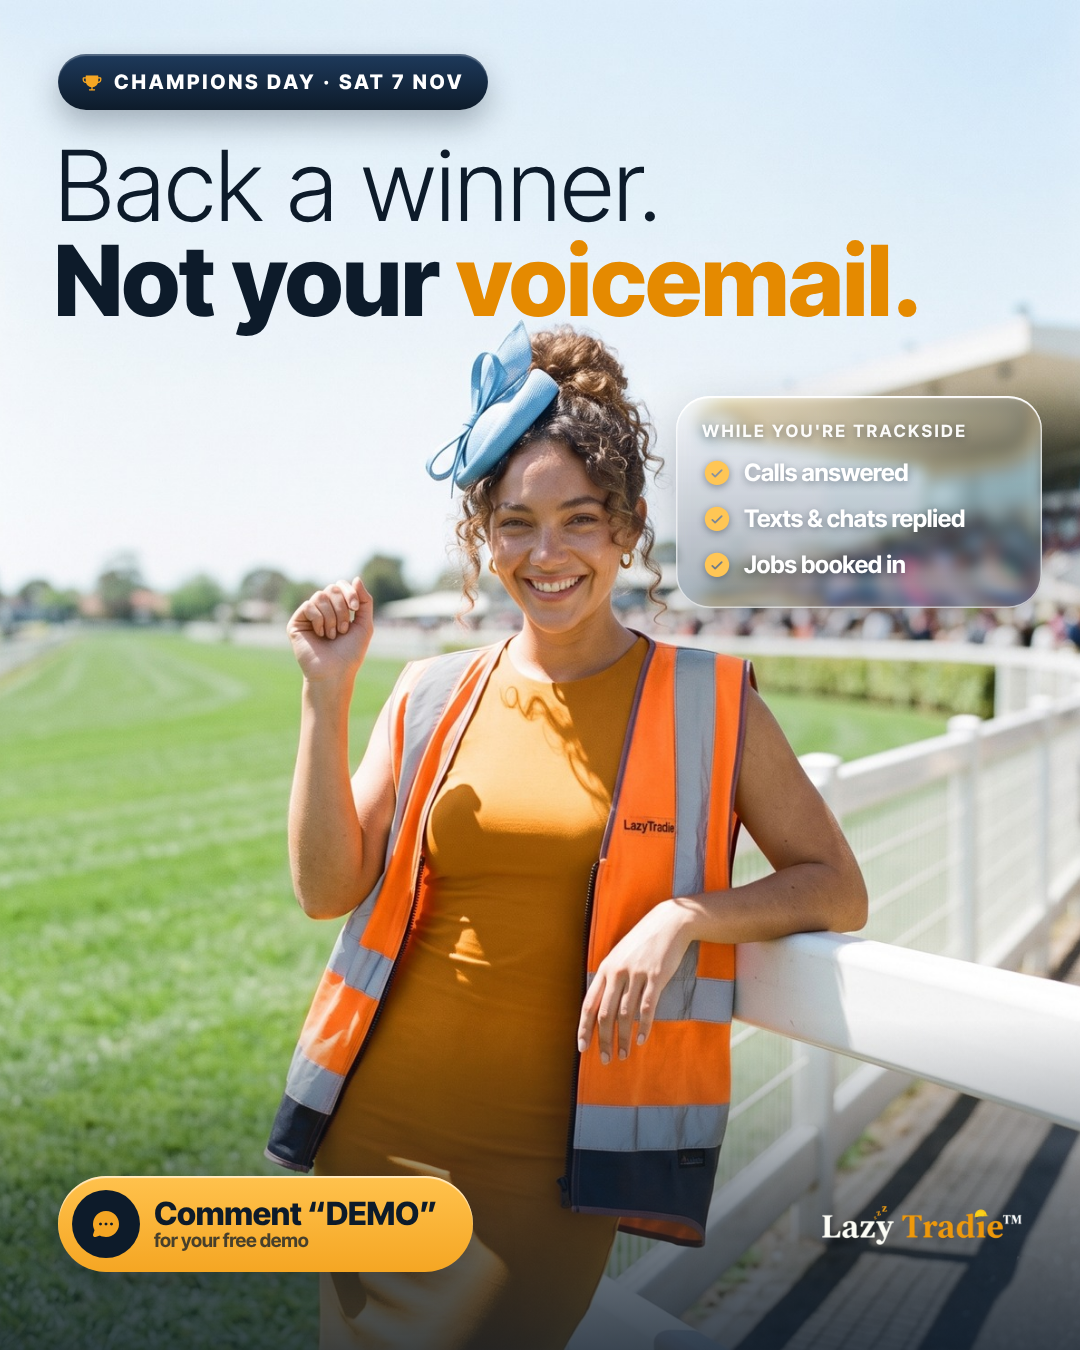
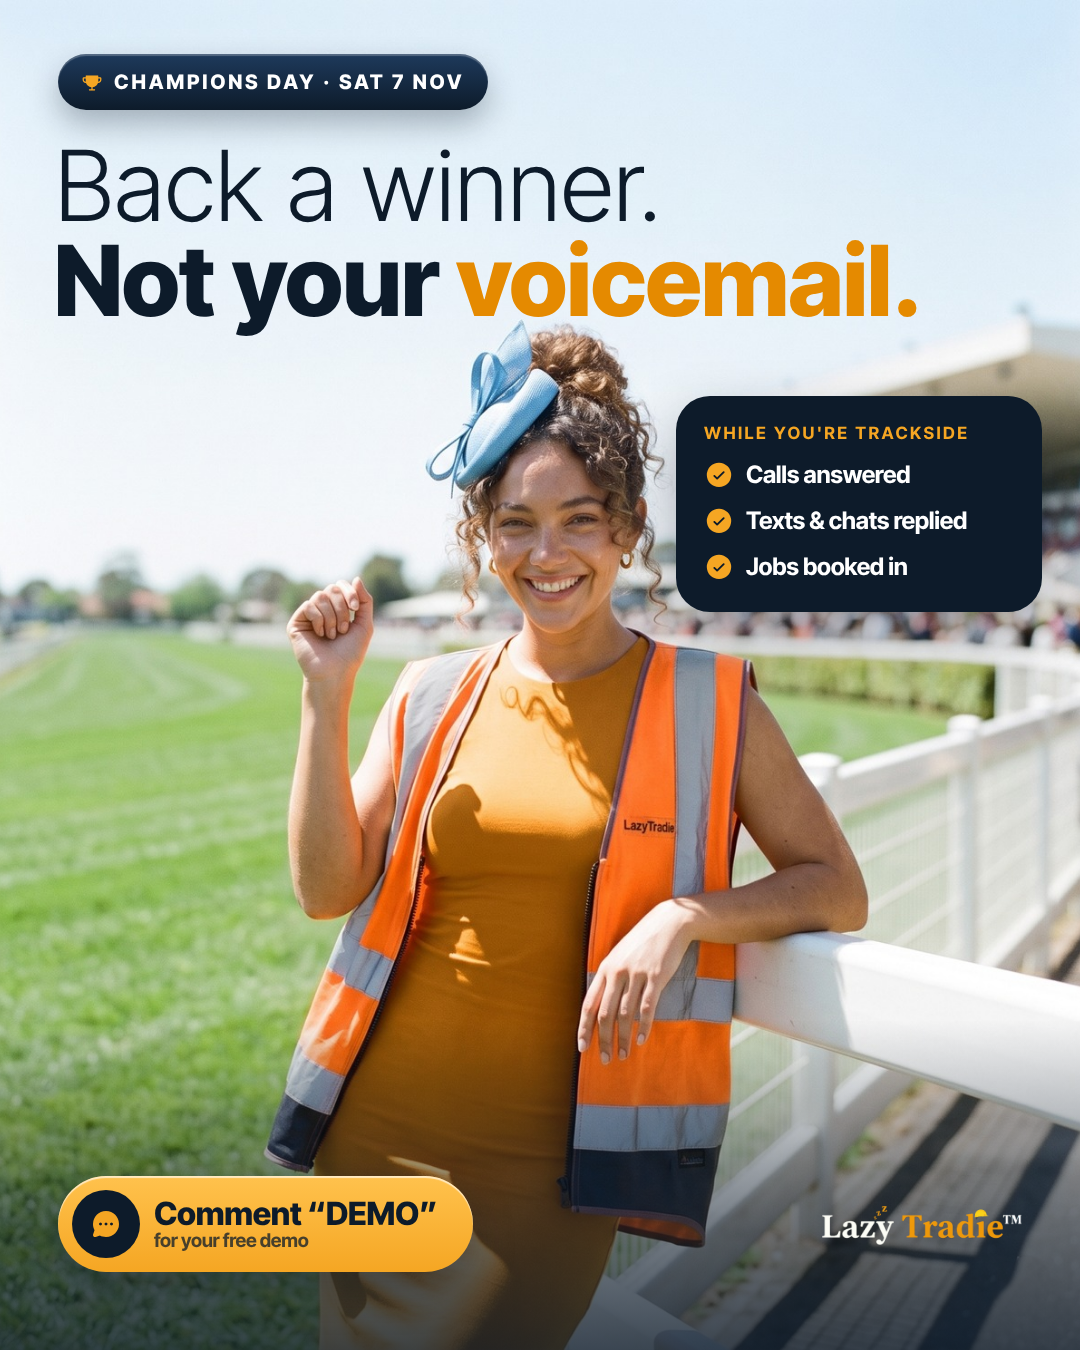
Champions Day poster: solid navy card instead of liquid glass for readability
Claude-Session: https://claude.ai/code/session_01K6yJh5Xf1XYHfAwWKMm4ff

Changed region(s): [[0.6111, 0.28, 0.9778, 0.4667]]

diff --git a/campaign/07-nov/raceday/src/poster.html b/campaign/07-nov/raceday/src/poster.html
@@ -23,7 +23,7 @@ body{font-family:'Inter Tight',sans-serif;-webkit-font-smoothing:antialiased;bac
 .ic{width:50px;height:50px;border-radius:50%;display:grid;place-items:center;font-size:25px;color:var(--navy);text-shadow:none;flex:none;
   background:radial-gradient(circle at 32% 28%,#FFE3A3,#F5A623 60%,#D98200);box-shadow:inset 0 2px 2px rgba(255,255,255,.7),0 6px 14px rgba(13,27,42,.3)}
 .row{display:flex;align-items:center;gap:12px;font-size:24px}
-.row i.ph-check-circle{color:#FFC655;font-size:30px;flex:none}
+.row i.ph-check-circle{color:#F5A623;font-size:30px;flex:none}
 </style></head><body>
 <div id="p">
   <div class="photo"></div>
@@ -34,8 +34,8 @@ body{font-family:'Inter Tight',sans-serif;-webkit-font-smoothing:antialiased;bac
     <div style="font-size:98px;font-weight:300">Back a winner.</div>
     <div style="font-size:98px;font-weight:800;margin-top:4px">Not your <span style="color:#E58A00">voicemail.</span></div></div>
 
-  <div class="g" style="left:676px;top:396px;width:366px;flex-direction:column;align-items:flex-start;gap:16px;padding:26px 26px 28px;border-radius:34px;white-space:normal;line-height:1.15" data-lg='{"scale":-120,"chroma":7,"blur":6}'>
-    <div style="font-size:17px;letter-spacing:.14em;opacity:.95">WHILE YOU'RE TRACKSIDE</div>
+  <div class="abs" style="left:676px;top:396px;width:366px;display:flex;flex-direction:column;gap:16px;padding:28px 28px 30px;border-radius:34px;line-height:1.15;color:#fff;font-weight:700;letter-spacing:-.02em;background:#0D1B2A;box-shadow:0 24px 54px rgba(13,27,42,.35)">
+    <div style="font-size:17px;letter-spacing:.14em;color:#F5A623">WHILE YOU'RE TRACKSIDE</div>
     <div class="row"><i class="ph-fill ph-check-circle"></i>Calls answered</div>
     <div class="row"><i class="ph-fill ph-check-circle"></i>Texts &amp; chats replied</div>
     <div class="row"><i class="ph-fill ph-check-circle"></i>Jobs booked in</div>
